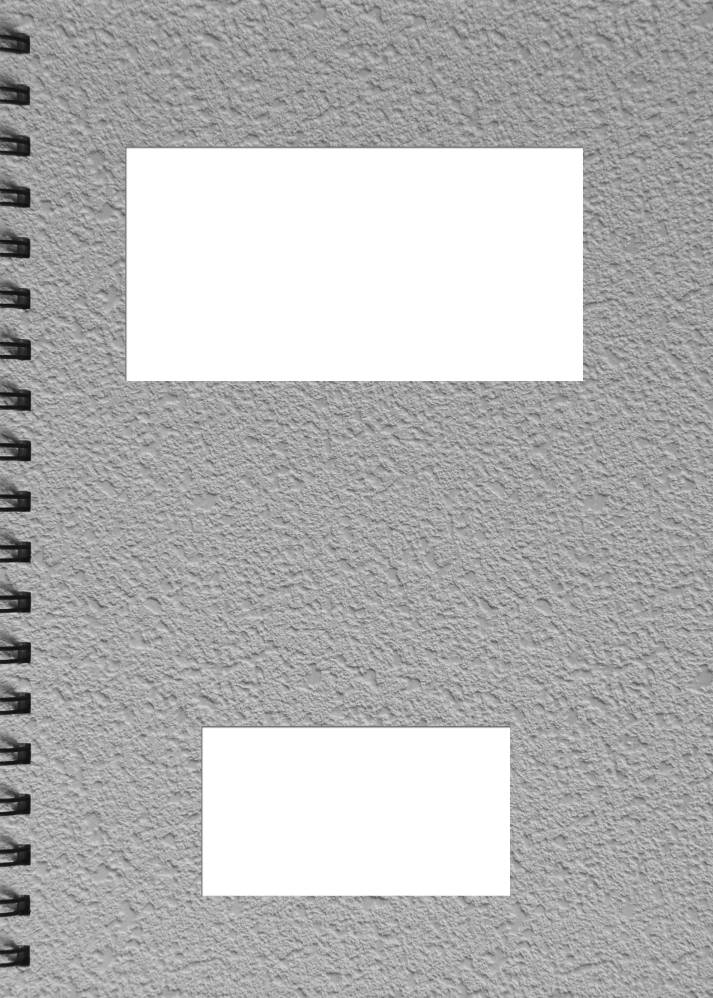
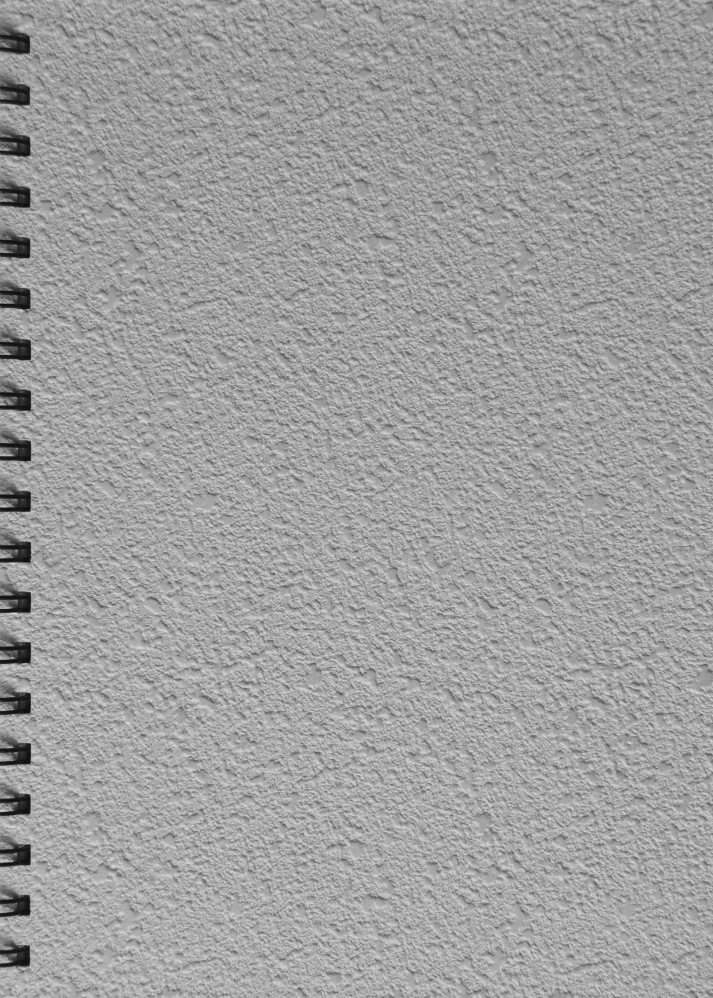
FrontScene now automatically sizes the white "labels".

Changed region(s): [[0.1543, 0.1242, 0.8331, 0.4038], [0.2777, 0.7144, 0.7405, 0.9008]]

diff --git a/src/BookScene/FrontScene.C b/src/BookScene/FrontScene.C
@@ -5,6 +5,7 @@
 #include "BookData.H"
 #include "Notebook.H"
 #include "Style.H"
+#include "RoundedRect.H"
 
 #include <math.h>
 #include <QTextBlockFormat>
@@ -15,6 +16,7 @@
 #include <QDebug>
 #include <QPainter>
 #include <QTextDocument>
+
 
 FrontScene::FrontScene(Notebook *book, QObject *parent):
   QGraphicsScene(parent),
@@ -83,6 +85,10 @@ void FrontScene::makeBackground() {
 	  QBrush(style.color("background-color")));
 
   QImage img(book->filePath("front.jpg"));
+  bool customFront = !img.isNull();
+  if (!customFront)
+    img = QImage(":/front.jpg");
+  
   if (!img.isNull()) {
     if (style.contains("front-recolor")) {
       QColor c(style.color("front-recolor"));
@@ -115,6 +121,16 @@ void FrontScene::makeBackground() {
     t.scale(style.real("page-width")/img.width(),
 	    style.real("page-height")/img.height());
     bg->setTransform(t);
+  }
+
+  if (customFront) {
+    toprect = 0;
+    bottomrect = 0;
+  } else {
+    toprect = new RoundedRect();
+    addItem(toprect);
+    bottomrect = new RoundedRect();
+    addItem(bottomrect);
   }
 }
 
@@ -157,6 +173,22 @@ void FrontScene::positionItems() {
   centerAt(author, xc, style.real("front-author-y"));
   centerAt(address, xc, style.real("front-address-y"));
   centerAt(dates, xc, style.real("front-dates-y"));
+
+  if (toprect) {
+    QRectF tr = title->sceneBoundingRect();
+    tr |= dates->sceneBoundingRect();
+    tr.adjust(-36, -18, 36, 18); // to be improved
+    toprect->setPos(tr.topLeft());
+    toprect->resize(tr.size());
+  }
+
+  if (bottomrect) {
+    QRectF br = author->sceneBoundingRect();
+    br |= address->sceneBoundingRect();
+    br.adjust(-36, -18, 36, 18); // to be improved
+    bottomrect->setPos(br.topLeft());
+    bottomrect->resize(br.size());
+  } 
 }
 
 void FrontScene::print(QPrinter *, QPainter *p) {

diff --git a/src/BookScene/RoundedRect.C b/src/BookScene/RoundedRect.C
@@ -1,0 +1,74 @@
+// RoundedRect.C
+
+#include "RoundedRect.H"
+#include <QPainter>
+
+RoundedRect::RoundedRect(QGraphicsItem *parent):
+  QGraphicsObject(parent) {
+  width_ = 200;
+  height_ = 100;
+  radius_ = 0;
+  dx_ = dy_ = 1.5;
+  blackalpha_ = 0.2;
+  whitealpha_ = 1;
+  
+}
+
+RoundedRect::~RoundedRect() {
+}
+
+void RoundedRect::setBlackAlpha(double a) {
+  blackalpha_ = a;
+  update();
+}
+
+void RoundedRect::setWhiteAlpha(double a) {
+  whitealpha_ = a;
+  update();
+}
+void RoundedRect::resize(QSizeF s) {
+  resize(s.width(), s.height());
+}
+
+void RoundedRect::resize(double w, double h) {
+  prepareGeometryChange();
+  width_ = w;
+  height_ = h;
+  update();
+}
+  
+void RoundedRect::setRadius(double r) {
+  radius_ = r;
+  update();
+}
+
+void RoundedRect::setOffset(double dx) {
+  setOffset(dx, dx);
+}
+
+void RoundedRect::setOffset(double dx, double dy) {
+  dx_ = dx;
+  dy_ = dy;
+  update();
+}
+
+QRectF RoundedRect::boundingRect() const {
+  return QRectF(0, 0, width_, height_);
+}
+
+void RoundedRect::paint(QPainter *p,
+			const QStyleOptionGraphicsItem *, QWidget *) {
+  QColor blk("black");
+  blk.setAlphaF(blackalpha_);
+  QColor wht("white");
+  wht.setAlphaF(whitealpha_);
+  p->setPen(Qt::NoPen);
+
+  p->setBrush(blk);
+  p->drawRoundedRect(QRectF(0, 0, width_, height_),
+		     radius_, radius_);
+
+  p->setBrush(wht);
+  p->drawRoundedRect(QRectF(dx_, dy_, width_-dx_, height_-dy_),
+		     radius_, radius_);
+}

diff --git a/src/Items/GfxNoteItem.C b/src/Items/GfxNoteItem.C
@@ -115,6 +115,7 @@ void GfxNoteItem::mouseReleaseEvent(QGraphicsSceneMouseEvent *e) {
   if (resizing) {
     data()->setTextWidth(text->textWidth());
     text->setBoxVisible(false);
+    updateTextPos();
   } else {
     if (line) {
       QLineF l = line->line();
@@ -140,8 +141,10 @@ void GfxNoteItem::mouseReleaseEvent(QGraphicsSceneMouseEvent *e) {
 GfxNoteItem *GfxNoteItem::newNote(QPointF p0, QPointF p1, Item *parent) {
   ASSERT(parent);
   GfxNoteData *d = new GfxNoteData(parent->data());
+  QPointF sp0 = parent->mapToScene(p0);
+  QPointF sp1 = parent->mapToScene(p1);
   d->setPos(p0);
-  d->setEndPoint(p1);
+  d->setDelta(sp1-sp0);
   d->setTextWidth(0);
 
   GfxNoteItem *i = new GfxNoteItem(d, parent);
@@ -173,4 +176,9 @@ void GfxNoteItem::childMousePress(QPointF, Qt::MouseButton b, bool resizeFlag) {
 void GfxNoteItem::makeWritable() {
   text->makeWritable();
   text->setAllowMoves();
+}
+
+void GfxNoteItem::setScale(qreal f) {
+  Item::setScale(f);
+  updateTextPos();
 }

diff --git a/src/Items/LateNoteItem.C b/src/Items/LateNoteItem.C
@@ -58,16 +58,16 @@ void LateNoteItem::setDateItemPosition() {
 LateNoteItem *LateNoteItem::newNote(QPointF p0, QPointF p1, Item *parent) {
   ASSERT(parent);
   LateNoteData *d = new LateNoteData(parent->data());
+  QPointF sp0 = parent->mapToScene(p0);
+  QPointF sp1 = parent->mapToScene(p1);
   d->setPos(p0);
-  d->setEndPoint(p1);
-
-  QPointF sp = parent->mapToScene(p1);
+  d->setDelta(sp1-sp0);
   if (p1.x()<p0.x()) 
     // item text will stick to the left
-    d->setTextWidth(sp.x() - 5);
+    d->setTextWidth(sp1.x() - 5);
   else
     // item text will stick to the right
-    d->setTextWidth(parent->style().real("page-width") - sp.x() - 5);
+    d->setTextWidth(parent->style().real("page-width") - sp1.x() - 5);
   
   LateNoteItem *i = new LateNoteItem(d, parent);
   i->makeWritable();

diff --git a/src/BookScene/RoundedRect.H b/src/BookScene/RoundedRect.H
@@ -1,0 +1,34 @@
+// RoundedRect.H
+
+#ifndef ROUNDEDRECT_H
+
+#define ROUNDEDRECT_H
+
+#include <QGraphicsObject>
+
+class RoundedRect: public QGraphicsObject {
+  Q_OBJECT;
+public:
+  RoundedRect(QGraphicsItem *parent=0);
+  virtual ~RoundedRect();
+  void setBlackAlpha(double);
+  void setWhiteAlpha(double);
+  void resize(QSizeF);
+  void resize(double, double);
+  void setRadius(double);
+  void setOffset(double);
+  void setOffset(double, double);
+protected:
+  QRectF boundingRect() const;
+  void paint(QPainter *p, const QStyleOptionGraphicsItem *, QWidget *);
+private:
+  double width_;
+  double height_;
+  double radius_;
+  double dx_;
+  double dy_;
+  double blackalpha_;
+  double whitealpha_;
+};
+
+#endif

diff --git a/src/Data/GfxNoteData.C b/src/Data/GfxNoteData.C
@@ -51,10 +51,6 @@ void GfxNoteData::setSheet(int s) {
   markModified();
 }
 
-QPointF GfxNoteData::endPoint() const {
-  return pos() + delta();
-}
-
 QPointF GfxNoteData::delta() const {
   return QPointF(dx(), dy());
 }
@@ -65,12 +61,6 @@ double GfxNoteData::lineLength() const {
 
 bool GfxNoteData::lineLengthIsZero() const {
   return dx()==0 && dy()==0;
-}
-
-void GfxNoteData::setEndPoint(QPointF p) {
-  dx_ = p.x() - x();
-  dy_ = p.y() - y();
-  markModified();
 }
 
 void GfxNoteData::setDelta(QPointF p) {

diff --git a/src/Items/GfxNoteItem.H b/src/Items/GfxNoteItem.H
@@ -21,11 +21,12 @@ public:
   virtual void makeWritable();
   void childMousePress(QPointF, Qt::MouseButton, bool resizeFlag);
   class TextItem *textItem() { return text; }
+  virtual void setScale(qreal f);
 protected:
   virtual void mouseMoveEvent(QGraphicsSceneMouseEvent *);
   virtual void mouseReleaseEvent(QGraphicsSceneMouseEvent *);
 private slots:
-  void updateTextPos();
+  void updateTextPos(); // must be called after scale change
   void abandon();
 protected:
   class TextItem *text;

diff --git a/src/Data/GfxNoteData.H b/src/Data/GfxNoteData.H
@@ -26,15 +26,11 @@ public:
   void setSheet(int);
   TextData const *text() const;
   TextData *text();
-  QPointF endPoint() const;
-  QPointF delta() const;
+   QPointF delta() const;
   double lineLength() const;
   bool lineLengthIsZero() const;
-  void setEndPoint(QPointF);
   void setDelta(QPointF);
   void setLineLengthToZero();
-  /* endPoint is calculated from pos() and (dx,dy); setEndPoint sets (dx,dy).
-  */
 protected:
   void loadMore(QVariantMap const &src);
 private:

diff --git a/src/Book/Notebook.C b/src/Book/Notebook.C
@@ -79,6 +79,7 @@ Notebook *Notebook::create(QString path) {
   styleIn.close();
   styleOut.close();
 
+  /*
   QFile jpegIn(":/front.jpg");
   ASSERT(jpegIn.open(QFile::ReadOnly));
   QFile jpegOut(d.filePath("front.jpg"));
@@ -89,6 +90,7 @@ Notebook *Notebook::create(QString path) {
   jpegOut.write(jpegIn.readAll());
   jpegIn.close();
   jpegOut.close();
+  */
 
   Notebook *nb = new Notebook(d.absolutePath());
   return nb;

diff --git a/src/App/SplashScene.C b/src/App/SplashScene.C
@@ -48,7 +48,7 @@ void SplashScene::makeBackground() {
 	  QPen(Qt::NoPen),
 	  QBrush(style.color("background-color")));
 
-  QImage img(":/splash.jpg");
+  QImage img(":/front.jpg");
   QGraphicsPixmapItem *bg = new QGraphicsPixmapItem();
   bg->setPixmap(QPixmap::fromImage(img));
   addItem(bg);

diff --git a/src/BookScene/FrontScene.H b/src/BookScene/FrontScene.H
@@ -24,6 +24,8 @@ private slots:
 private:
   Notebook *book; // we do not own
   class Style const &style;
+  class RoundedRect *toprect;
+  class RoundedRect *bottomrect;
   QGraphicsTextItem *title;
   QGraphicsTextItem *author;
   QGraphicsTextItem *address;

diff --git a/src/Items/Item.C b/src/Items/Item.C
@@ -163,3 +163,7 @@ BlockItem const *Item::ancestralBlock() const {
 BlockItem *Item::ancestralBlock() {
   return parent() ? parent()->ancestralBlock() : 0;
 }
+
+void Item::setScale(qreal f) {
+  QGraphicsObject::setScale(f);
+}
